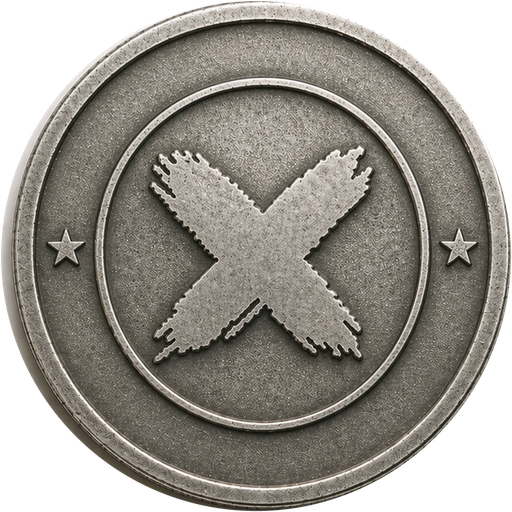
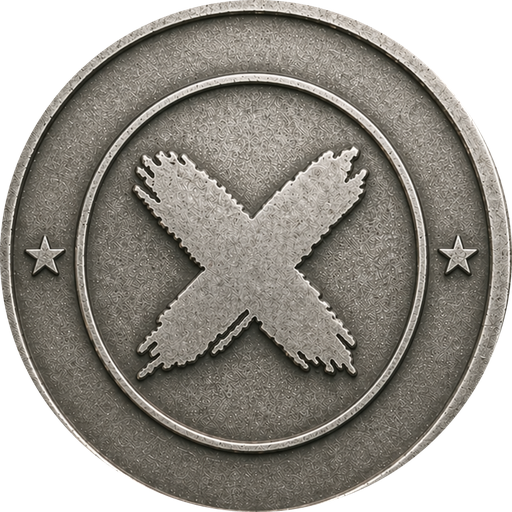
Client: moeda só com a face; ficha sem INSERT COIN e brilho branco; ranking sem margens nem painel de título
- Moeda: a foto mostrava a lateral (espessura) embaixo e à esquerda, que no recorte parecia
  outra moeda atrás. Frente e verso recortados de novo só na face redonda, pelas bordas medidas.
- Ficha da sala: sai o INSERT COIN piscando; o brilho ao passar o mouse fica branco.
- Ranking: sai o painel com o título do jogo e o Voltar para a sala (o caminho no topo e o Esc
  voltam para a sala); filtros, lista e detalhes encostados, sem margens, como a sala.

diff --git a/shmupx-client/src/room.css b/shmupx-client/src/room.css
@@ -516,14 +516,11 @@
 
 /* A ficha é o Play Ranked: clicar nela (ou Enter com o foco nela) joga valendo ranking. */
 .credits-coin-button { display: inline-flex; padding: 0; border: 0; border-radius: 50%; background: none; cursor: pointer; transition: transform .15s ease, filter .15s ease; }
-.credits-coin-button:hover:not(:disabled) { transform: scale(1.04); filter: drop-shadow(0 0 14px #57fcff59); }
+.credits-coin-button:hover:not(:disabled) { transform: scale(1.04); filter: drop-shadow(0 0 14px #ffffff73); }
 .credits-coin-button:active:not(:disabled) { transform: scale(.97); }
 .credits-coin-button:focus-visible { outline: 2px solid var(--cyan); outline-offset: 4px; }
 .credits-coin-button:disabled { cursor: not-allowed; filter: grayscale(.7) brightness(.75); }
 .room-credits .credits-coin-button { grid-row: 1 / 3; }
-.room-credits .credits-cta { grid-column: 1; grid-row: 3; justify-self: center; display: inline-flex; align-items: center; gap: 8px; margin-top: 8px; color: #57fcff; font-size: 13px; letter-spacing: .22em; text-transform: uppercase; animation: insert-coin-blink 1.2s step-end infinite; }
-@keyframes insert-coin-blink { 50% { opacity: .15; } }
-@media (prefers-reduced-motion: reduce) { .room-credits .credits-cta { animation: none; } }
 
 /* Sala sem margens: a caixa de mensagem colada nas mensagens (campo e Enviar encostados, sem o canto
    cortado) e o painel de jogadores sem recuos, com os jogadores encostados uns nos outros. */
@@ -540,3 +537,13 @@
 .game-room-players ul { margin: 0; padding: 0; gap: 0; }
 .game-room-players .room-player { border-top: 1px solid #ffffff12; }
 .game-room-players .room-watch { margin: auto 0 0; border-width: 1px 0 0; }
+
+/* Ranking sem margens, como a sala: filtros, lista e detalhes encostados (sem o painel de título). */
+.room-ranking { grid-template-rows: auto minmax(0, 1fr); gap: 0; padding: 0; }
+.room-ranking-filters, .room-ranking-list, .room-ranking-details { border-radius: 0; }
+.room-ranking-list { border-top: 0; }
+.room-ranking-details { grid-row: 1 / 3; border-left: 0; }
+@media (max-width: 1100px) {
+  .room-ranking { grid-template-rows: auto minmax(280px, 1fr) auto; }
+  .room-ranking-details { grid-row: auto; border-left: 1px solid var(--stroke); border-top: 0; }
+}

diff --git a/shmupx-client/src/components/RoomRankingView.tsx b/shmupx-client/src/components/RoomRankingView.tsx
@@ -27,15 +27,15 @@ function formatDuration(ms: number): string {
 interface RoomRankingViewProps {
   room: GameRoom;
   runs: SessionRun[];
-  onBack: () => void;
 }
 
 /**
  * Ranking do jogo, aberto na aba da sala. Local: runs deste jogo observadas nesta sessão (o
  * placar ainda não é exposto a esta tela). Online: `GET /api/ranking/jogos/{id}` do backend
- * (melhor placar de cada jogador no modo escolhido).
+ * (melhor placar de cada jogador no modo escolhido). Sem painel de título: o caminho no topo
+ * (Minhas coleções › jogo › Ranking) mostra onde se está e volta para a sala.
  */
-export default function RoomRankingView({ room, runs, onBack }: RoomRankingViewProps) {
+export default function RoomRankingView({ room, runs }: RoomRankingViewProps) {
   const { t, locale } = useI18n();
   const [scope, setScope] = useState<Scope>("local");
   const [mode, setMode] = useState<Mode>("highscore");
@@ -76,13 +76,6 @@ export default function RoomRankingView({ room, runs, onBack }: RoomRankingViewP
 
   return (
     <section className="room-ranking" aria-label={t("Ranking de {game}", { game: room.title })}>
-      <header className="room-ranking-header">
-        <div>
-          <h1>{room.title}</h1>
-          <p>{t("RANKING DA SALA")}</p>
-        </div>
-        <button type="button" className="room-action" onClick={onBack}>{t("← Voltar para a sala")}</button>
-      </header>
 
       <div className="room-ranking-filters">
         <div className="filter-group">

diff --git a/shmupx-client/src/components/ClientShell.tsx b/shmupx-client/src/components/ClientShell.tsx
@@ -339,7 +339,7 @@ export default function ClientShell({ rooms, selectedRoomId, recordingRoomId, on
           {activeRoom === null ? (
             <CollectionPane rooms={rooms} runs={runs} selectedRoomId={selectedRoomId} recordingRoomId={recordingRoomId} onSelectRoom={onSelectRoom} onOpenRoom={openGame} onOpenRanking={(id) => openGame(id, true)} compact={false} bigPicture={bigPicture.active} />
           ) : rankingRoomIds.includes(activeRoom.id) ? (
-            <RoomRankingView key={activeRoom.id} room={activeRoom} runs={runs} onBack={() => setRanking(activeRoom.id, false)} />
+            <RoomRankingView key={activeRoom.id} room={activeRoom} runs={runs} />
           ) : (
             renderRoom(activeRoom, { openRanking: () => setRanking(activeRoom.id, true), showCollection: () => setActiveRoomId(null) })
           )}

diff --git a/shmupx-client/src/components/CreditsBadge.tsx b/shmupx-client/src/components/CreditsBadge.tsx
@@ -14,7 +14,7 @@ export default function CreditsBadge({ uid, className = "", spin = 0, onPlay, pl
   onPlay?: () => void;
   playDisabled?: boolean;
   playTitle?: string;
-  /** Play Ranked com live: aparece o selo LIVE na chamada. */
+  /** Play Ranked com live (só muda o nome do botão para leitores de tela). */
   live?: boolean;
 }) {
   const { t } = useI18n();
@@ -36,9 +36,6 @@ export default function CreditsBadge({ uid, className = "", spin = 0, onPlay, pl
         : coin}
       <strong>{credits ?? "—"}</strong>
       <span className="credits-label">{t(credits === 1 ? "ficha" : "fichas")}</span>
-      {onPlay && !playDisabled && (
-        <span className="credits-cta" aria-hidden="true">{t("Insert coin")}{live && <span className="play-live-chip">{t("Live")}</span>}</span>
-      )}
     </div>
   );
 }
